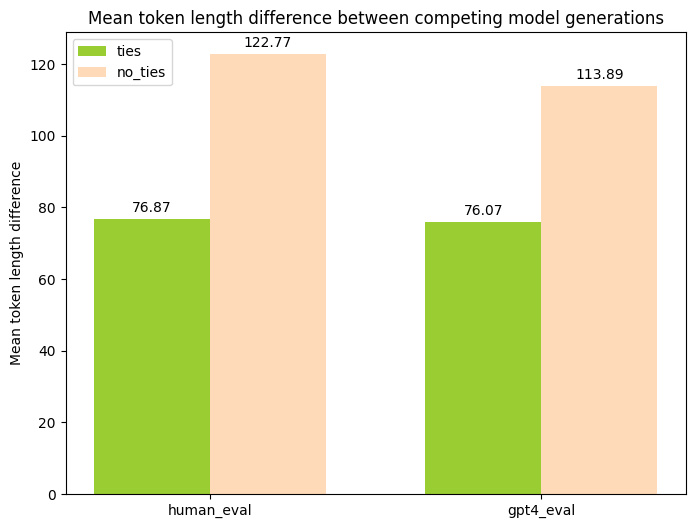
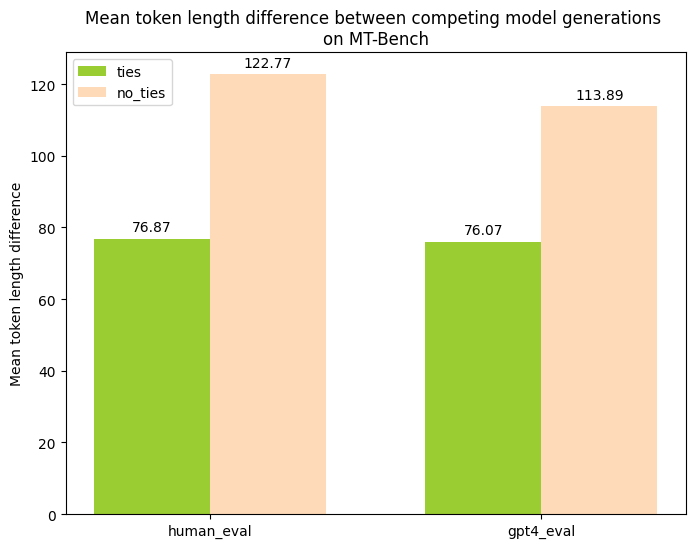
new benchmark

diff --git a/docs/_posts/2023-07-26-verbosity-bias-llms.md b/docs/_posts/2023-07-26-verbosity-bias-llms.md
@@ -9,7 +9,7 @@ permalink: verbosity-bias-llms.html
 
 Much has been reported recently about biases in LLM based evaluators - for instance, LLM’s have been reported to exhibit position bias favoring options in earlier positions over others [[1]](#references) [[2]](#references) [[3]](#references), verbosity bias favoring more verbose outputs [[4]](#references), diversity bias favoring outputs using higher number of distinct tokens, and bias towards LLM-based outputs [[5]](#references). These have often been used as a critique of such approaches. In addition, the most common method of validating automated metrics is their correlation with human judgement. It’s worthwhile, then, to ask the question: Do humans suffer from the same biases?
 
-In this micro-post, I dig into the verbosity bias on two benchmarks: The first, a task of miscellaneous prompts from the MT-bench [[4]](#references) dataset. MT-bench contains 3.3K pairwise human preferences on model outputs from 6 strongly performing large language models - GPT-4, GPT-3.5, Claud-v1, Vicuna-13B, Alpaca-13B, and LLaMA-13B, which have been annotated for preference by graduate students with expertise on 8 topics (writing, roleplay, extraction, reasoning, math, coding, STEM, humanities/social science). A second, a news summarization benchmark, using a dataset of preferences over LLM generated summaries and high-quality summaries for news articles written by freelance writers [[6]](#references). A reasonable hypothesis is that while humans (and LLMs) might lean towards verbosity in descriptive tasks, brevity is a reasonable preference on a summarization task.
+In this micro-post, I dig into the verbosity bias on three benchmarks: The first, a task of miscellaneous prompts from the MT-bench [[4]](#references) dataset. MT-bench contains 3.3K pairwise human preferences on model outputs from 6 strongly performing large language models - GPT-4, GPT-3.5, Claud-v1, Vicuna-13B, Alpaca-13B, and LLaMA-13B, which have been annotated for preference by graduate students with expertise on 8 topics (writing, roleplay, extraction, reasoning, math, coding, STEM, humanities/social science). A second similar task of miscellaneous prompts using the Vicuna benchmark [[7]](#references) on competing models - Bard, Guanaco-7/13/33/65b, Vicuna-13b, GPT-3.5, GPT-4, and annotated for pairwise comparisons by Amazon Mechanical Turk workers. Finally, a news summarization task/benchmark, using a dataset of preferences over LLM generated summaries and high-quality summaries for news articles written by freelance writers [[6]](#references). A reasonable hypothesis is that while humans (and LLMs) might lean towards verbosity in descriptive tasks, brevity is a reasonable preference of a summarization task.
 
 ### Experiments exploring verbosity bias in human and LLM evals
 
@@ -25,10 +25,20 @@ We compare the model generated outputs in MT-bench evaluated by human experts an
 <img src="https://amy12xx.github.io/img/verbosity_bias/human-gpt4-eval.png" width=360>
 </p>
 
+Similarly, on the Vicuna benchmark, 68.82% of the time, annotators preferred outputs with longer generations, between competing models (controlled for position bias).
+
+<p align="center" style="font-size:8px;">
+<img src="https://amy12xx.github.io/img/verbosity_bias/vicuna.png" width=360>
+</p>
+
 Between outputs that were marked as ties (between the two competing models), and those that were not ties (strict preference of one or the other model), I found that ties had a lower average token length difference between the model outputs, but that this behavior was similar to both human and LLM evaluations. 
 
 <p align="center" style="font-size:8px;">
 <img src="https://amy12xx.github.io/img/verbosity_bias/mean token len.png" width=360>
+</p>
+
+<p align="center" style="font-size:8px;">
+<img src="https://amy12xx.github.io/img/verbosity_bias/vicuna mean token len.png" width=360>
 </p>
 
 When I described verbosity bias above, I left out some parts that are used in its definition in the MT-bench paper - *“even if they are not as clear, high-quality, or accurate”,* mainly because I think the inductive bias towards longer outputs itself may exist without this distinction, and more importantly, because I do not think there have been sufficient studies to show that this is the case.
@@ -51,7 +61,7 @@ We look at the task of news summarization, where, one would expect a preference 
 
 ### Discussion and Conclusion
 
-If such known biases exist in human evaluations, it begs the question if the underlying task creation needs to be adjusted to first debias it. For instance, on both the general and summarization tasks, could they have included specific instructions that guide the annotators against these known biases, or if the outputs were first normalized or bounded for length. 
+If such known biases exist in human evaluations, it begs the question if the underlying task creation needs to be adjusted to first debias it. For instance, on both the general and summarization tasks, could they have included specific instructions that guide the annotators against these known biases, or if the outputs were first controlled for length. 
 
 Human evaluations have been used as the gold standard on most NLP tasks, including recent benchmarks on LLMs. They have additionally been used in the creation of new metrics (including metrics using LLMs (a.k.a GPT-scorers), where a high correlation of a metric with human judgement is used to validate its reliability as a metric. 
 
@@ -79,3 +89,5 @@ If you use this post in your research, please consider citing as follows:
 [5] Yang Liu, Dan Iter, Yichong Xu, Shuohang Wang, Ruochen Xu and Chenguang Zhu. G-EVAL: NLG Evaluation using GPT-4 with Better Human Alignment. arXiv preprint arXiv:2303.16634, 2023.
 
 [6] Tianyi Zhang, Faisal Ladhak, Esin Durmus, Percy Liang, Kathleen McKeown and Tatsunori B. Hashimoto. Benchmarking Large Language Models for News Summarization. arXiv preprint arXiv:2301.13848, 2023.
+
+[7] Tim Dettmers, Artidoro Pagnoni, Ari Holtzman, and Luke Zettlemoyer. QLoRA: Efficient Finetuning of Quantized LLMs. arXiv preprint arXiv:2305.14314. 2023.
